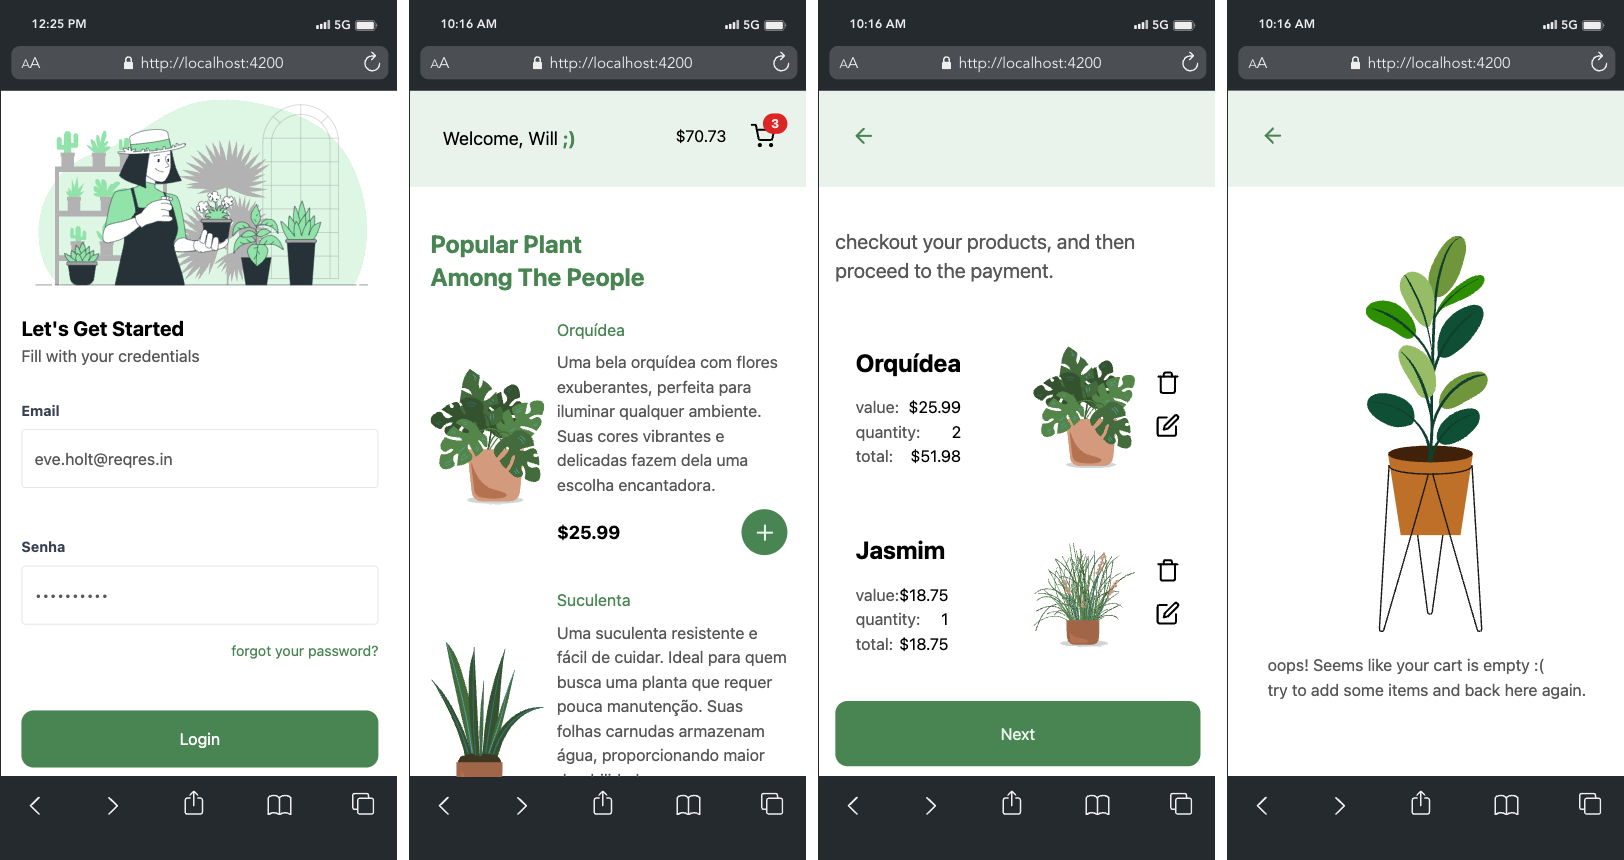
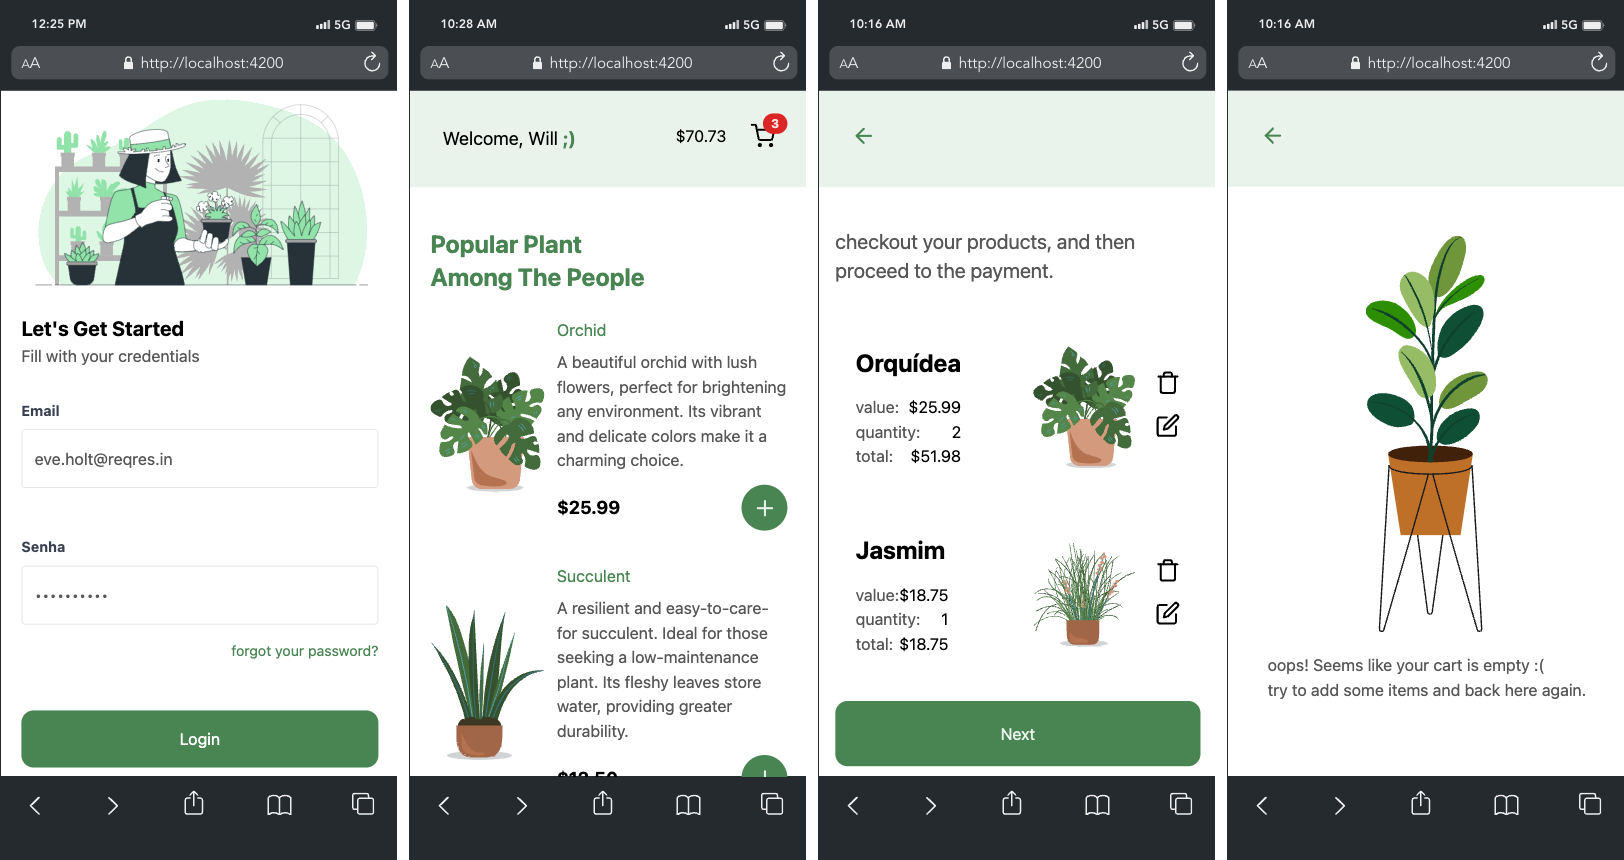
docs: update screenshot image

Changed region(s): [[0.2463, 0.3628, 0.4926, 0.6349], [0.2463, 0.6651, 0.4926, 0.907], [0.431, 0.5442, 0.4926, 0.6651]]

diff --git a/libs/state/shop-state/src/lib/service/plant/plant.service.ts b/libs/state/shop-state/src/lib/service/plant/plant.service.ts
@@ -5,22 +5,25 @@ import { retry } from 'rxjs'
 const BASE_URL = 'http://localhost:3000'
 
 interface ApiResponseOf<T> {
-  data: Array<T>
+	data: Array<T>
 }
 
 interface PlantResponse {
-  name: string
-  price: number
-  description: string
-  image: string
+	name: string
+	price: number
+	description: string
+	image: string
 }
 
 @Injectable()
 export class PlantService {
-  constructor(private _http: HttpClient) {}
+	constructor(private _http: HttpClient) {}
 
-  loadAllPlants() {
-    return this._http.get<ApiResponseOf<PlantResponse>>(`${BASE_URL}/plants`)
-    .pipe(retry(2))
-  }
+	private _lang = 'en'
+
+	loadAllPlants() {
+		return this._http
+			.get<ApiResponseOf<PlantResponse>>(`${BASE_URL}/plants-${this._lang}`)
+			.pipe(retry(2))
+	}
 }
